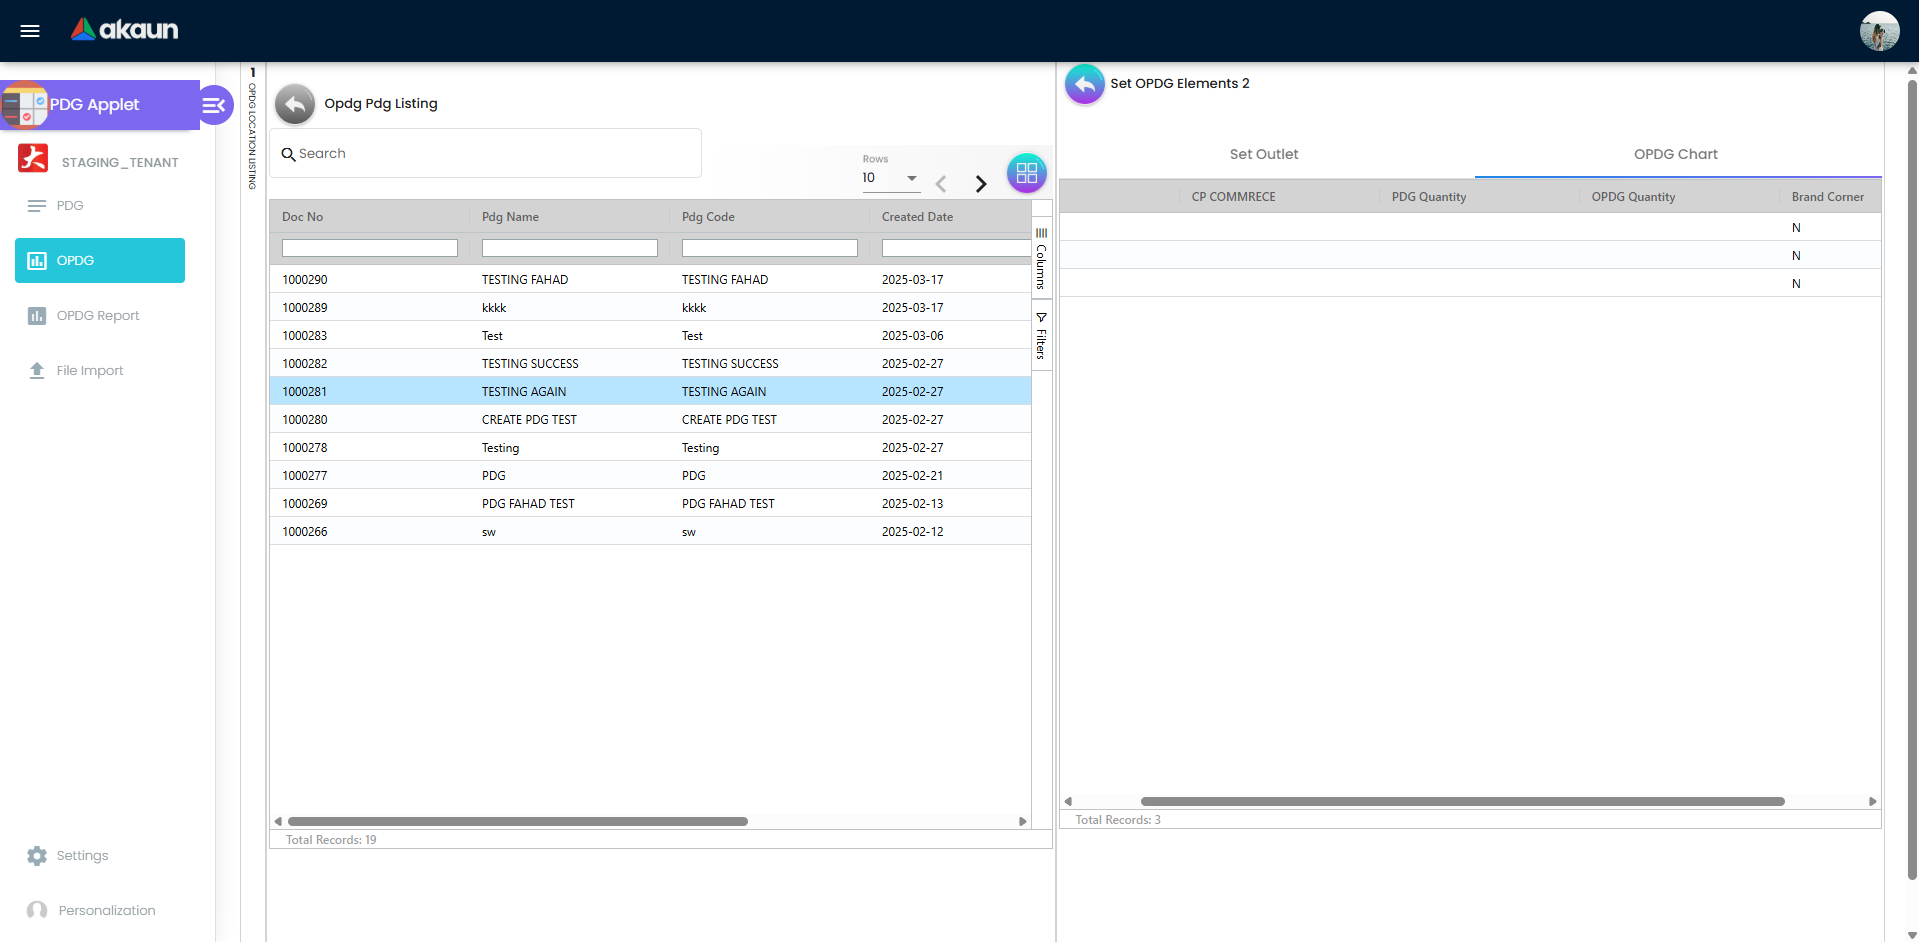
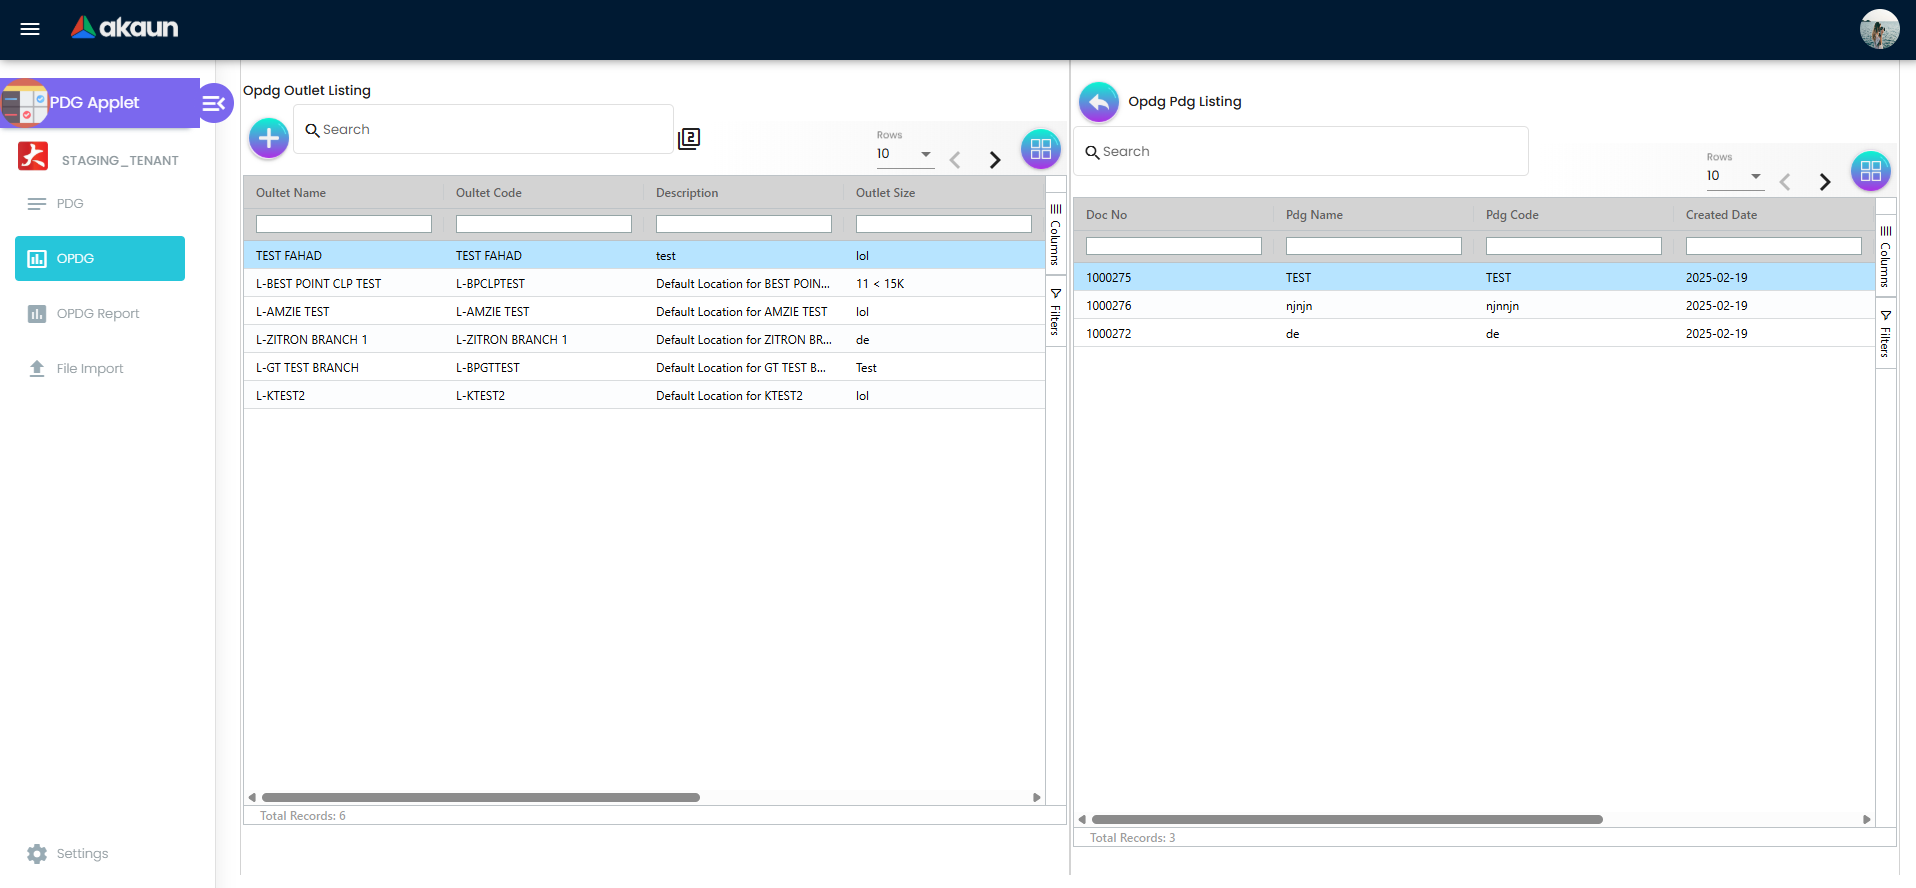
pdg applet report documentation added

diff --git a/content/en/applets/pdg-applet.md b/content/en/applets/pdg-applet.md
@@ -129,13 +129,33 @@ Create an Outlet Product Distribution Guide (OPDG) based on a PDG, then tailor i
 
 ---
 
-## OPDG Outlet Listing
 
-View all OPDGs assigned to outlets, with type and size visible at a glance.
+## OPDG Report Listing
 
-{{< figure src="/screenshots/pdg-applet/opdg-outlet-listing.png" alt="OPDG Outlet Listing" caption="OPDG Outlet Listing: All OPDGs by outlet." >}}
-{{< figure src="/screenshots/pdg-applet/opdg-pdg-listing.png" alt="OPDG PDG Listing" caption="OPDG PDG Listing: Linked PDG view." >}}
-{{< figure src="/screenshots/pdg-applet/opdg-pdg-chart.png" alt="OPDG PDG Chart" caption="OPDG PDG Chart: Chart tab for OPDG." >}}
+This report provides a detailed view of each outlet's OPDG quantity, the corresponding PDG quantity, brand, and brand quantity. It helps managers and planners track product distribution at a granular level for every outlet.
+
+{{< figure src="/screenshots/pdg-applet/opdg-report-listing.png" alt="OPDG Report Listing" caption="OPDG Report Listing: See OPDG QTY, PDG QTY, Brand, and Brand QTY for each outlet." >}}
+
+**Report Columns:**
+- Outlet Name
+- Outlet Code
+- Description
+- Outlet Size
+- Outlet Type
+- Product Department
+- Product Type
+- PDG QTY (Recommended display quantity from PDG)
+- OPDG QTY (Actual quantity set for outlet)
+- Brand
+- Brand QTY (Quantity allocated per brand)
+
+This listing allows you to:
+- Compare OPDG QTY vs PDG QTY for compliance and adjustments
+- See brand-level allocations for each outlet
+- Filter and sort by outlet, product group, or brand
+- Audit and review distribution plans across all outlets
+
+Use this report to ensure each outlet is following the recommended guidelines and to quickly identify any discrepancies or customizations made at the outlet level.
 
 ---
 
@@ -149,102 +169,5 @@ Bulk upload or update PDG templates using Excel for fast rollout.
 
 ---
 
-## Applet Installation Guide {#applet-installation-guide}
-
-Platform ADMIN users can install and assign the PDG/OPDG applets and permissions via the Platform Sysadmin Applet.
-
-{{< figure src="/screenshots/pdg-applet/catalogue-listing.png" alt="Catalogue Listing" caption="Catalogue Listing: Find Senheng PDG Catalog." >}}
-{{< figure src="/screenshots/pdg-applet/catalogue-add-user.png" alt="Add User to Catalogue" caption="Add users to the PDG catalogue." >}}
-{{< figure src="/screenshots/pdg-applet/catalogue-install-applet.png" alt="Install Applet for Users" caption="Install PDG Applet for users." >}}
-{{< figure src="/screenshots/pdg-applet/applet-settings-role-permission.png" alt="Applet Settings - Role Permission" caption="Assign user roles for PDG applet access." >}}
-{{< figure src="/screenshots/pdg-applet/applet-details-installed-users.png" alt="Applet Details - Installed by User" caption="Applet Details: Users with applet installed." >}}
-
-> **Alternative:** The BigLedger team can invite users by email for instant access and permissions.
-## 5.0 PDG Import/Upload
-
-📥 This section is intended for uploading PDG templates only.
-
-#### Step 1: Navigate to File Import
-In the PDG Applet, go to the third menu tab titled “File Import.”
-Click to upload the PDG template file (in the prescribed Excel format).
-
-{{< figure src="/screenshots/pdg-applet/file-import-listing.png" alt="File Import Listing" caption="File Import: Upload and monitor PDG templates." >}}
-
-#### Step 2: Understand the PDG Template Format
-The PDG upload template contains two major sections:
-Header Fields:
-- PDG Name
-- PDG Code
-- Create Date
-- Modified Date
-- Effective Date
-- End Date
-- Status
-
-Line Item Fields (PDG Line Items):
-- No – Row number (for reference only)
-- GROUP – Category Group (e.g., S9 for Product Department)
-- S5 – Product Group
-- Product Category
-- Outlet Type (e.g., B, P, SP)
-- Outlet Size (e.g., <5K, 5–7K, etc.)
-- Quantity – Recommended display quantity
-
-{{< figure src="/screenshots/pdg-applet/pdg-upload-template.png" alt="PDG Upload Template" caption="PDG upload template format (Excel)." >}}
-
-📊 Tip: Make sure combinations are valid (i.e., they exist in the system and are assigned to at least one item), or the upload may fail.
-
-#### Step 3: Monitor Upload Results
-After uploading, each file will appear in the listing with a processing status.
-Click into a listing to view:
-- Detailed upload results
-- Success or failure reasons for each row (e.g., missing fields, invalid combinations)
-A successful upload will be indicated clearly with a processed status in the listing.
-
-{{< figure src="/screenshots/pdg-applet/file-import-errors.png" alt="File Import Errors" caption="File Import: View upload errors and results." >}}
-
----
-
-## 6.0 Applet Installation Guide
-
-🛠 This section is intended for Platform ADMIN users.
-To access and use PDG-related functionalities, the required applets must be installed for relevant users via the Platform Sysadmin Applet.
-
-#### Step-by-Step Guide:
-
-**Step 1: Locate the PDG Catalog**
-Go to Platform Sysadmin Applet > Catalogue Listing.
-Search for “Senheng PDG Catalog” and click into it.
-
-{{< figure src="/screenshots/pdg-applet/catalogue-listing.png" alt="Catalogue Listing" caption="Catalogue Listing: Find Senheng PDG Catalog." >}}
-
-**Step 2: Add Users to the Catalogue**
-Select the User Tab.
-Click “Invite” or “Add” to assign users who need access to PDG applets.
-
-{{< figure src="/screenshots/pdg-applet/catalogue-add-user.png" alt="Add User to Catalogue" caption="Add users to the PDG catalogue." >}}
-
-**Step 3: Install Applets for Users**
-Go to the Applet Tab within the catalog.
-Click on the desired PDG Applet.
-Under the Installed by User Tab, add users to trigger applet installation on their platform view.
-
-{{< figure src="/screenshots/pdg-applet/catalogue-install-applet.png" alt="Install Applet for Users" caption="Install PDG Applet for users." >}}
-
-**Step 4: Assign User Roles**
-Link each user to the appropriate user role that includes PDG permissions.
-This ensures they have sufficient access rights to view, edit, and manage the PDG applet functionalities.
-✅ Once the above are complete, these users will be able to view and interact with PDG and OPDG applets on their platform.
-
-{{< figure src="/screenshots/pdg-applet/applet-settings-role-permission.png" alt="Applet Settings - Role Permission" caption="Assign user roles for PDG applet access." >}}
-{{< figure src="/screenshots/pdg-applet/applet-details-installed-users.png" alt="Applet Details - Installed by User" caption="Applet Details: Users with applet installed." >}}
-
-**Alternative Installation Method:**
-If you prefer to streamline the process, the BigLedger team can directly send email invitations:
-Provide the user emails to the BigLedger team.
-Invited users will receive registration links.
-Upon logging in, the PDG applet will already be installed, and the necessary permissions will be automatically applied.
-
----
 
 
